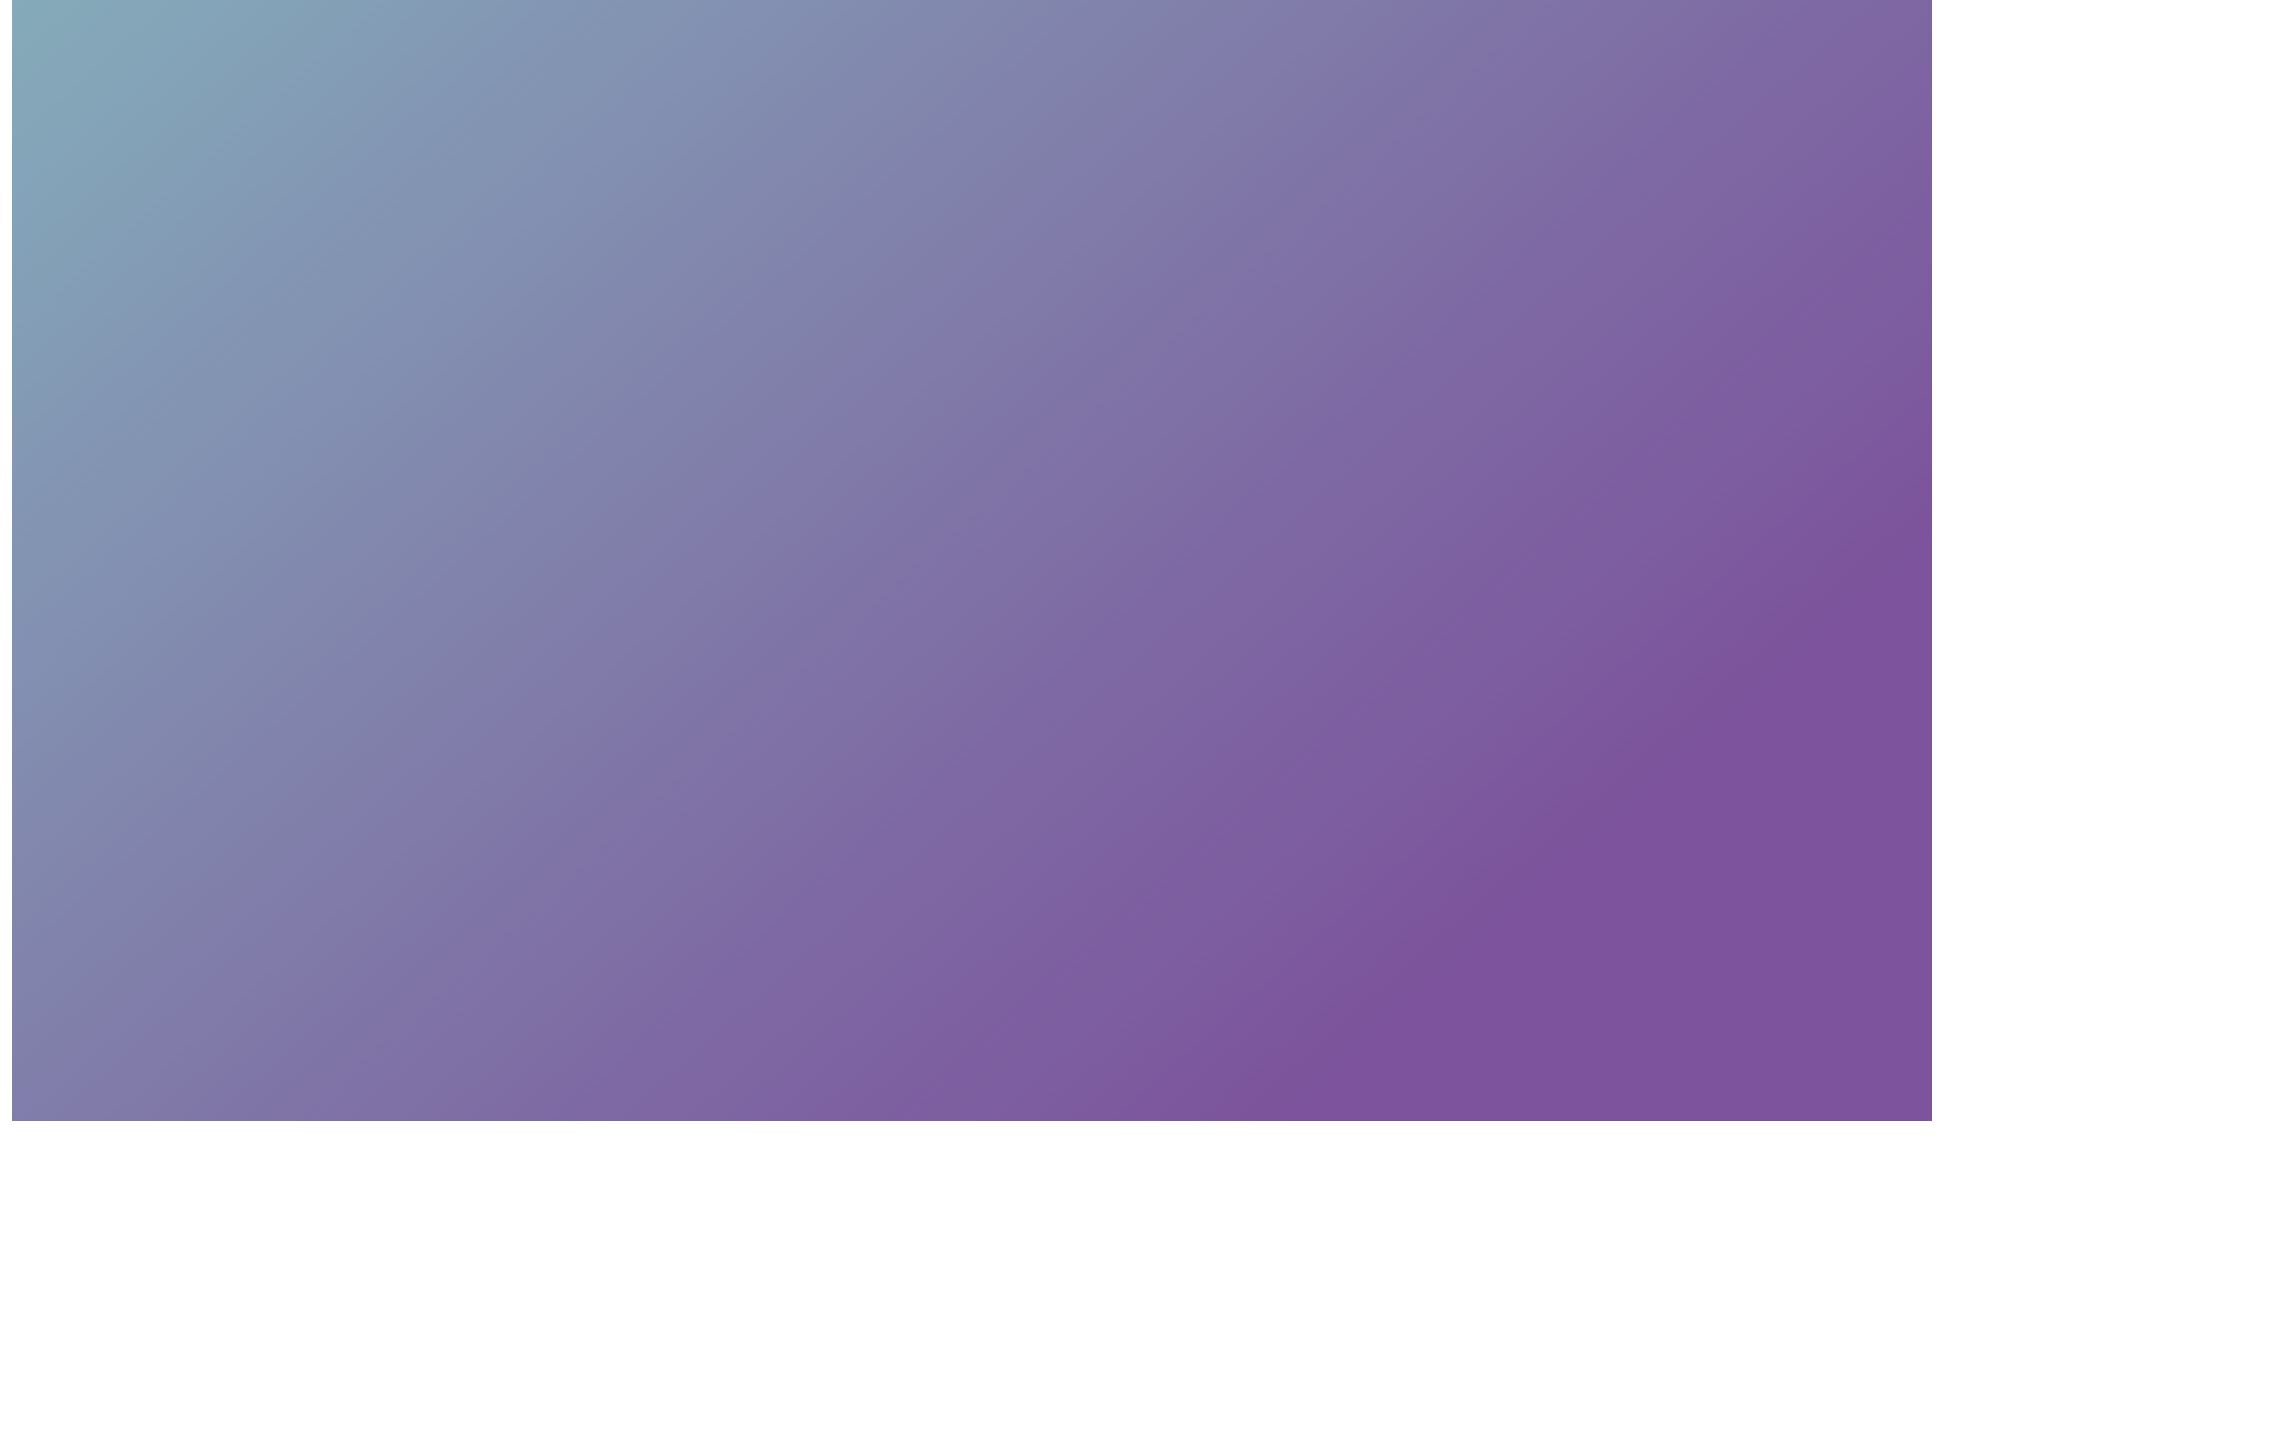
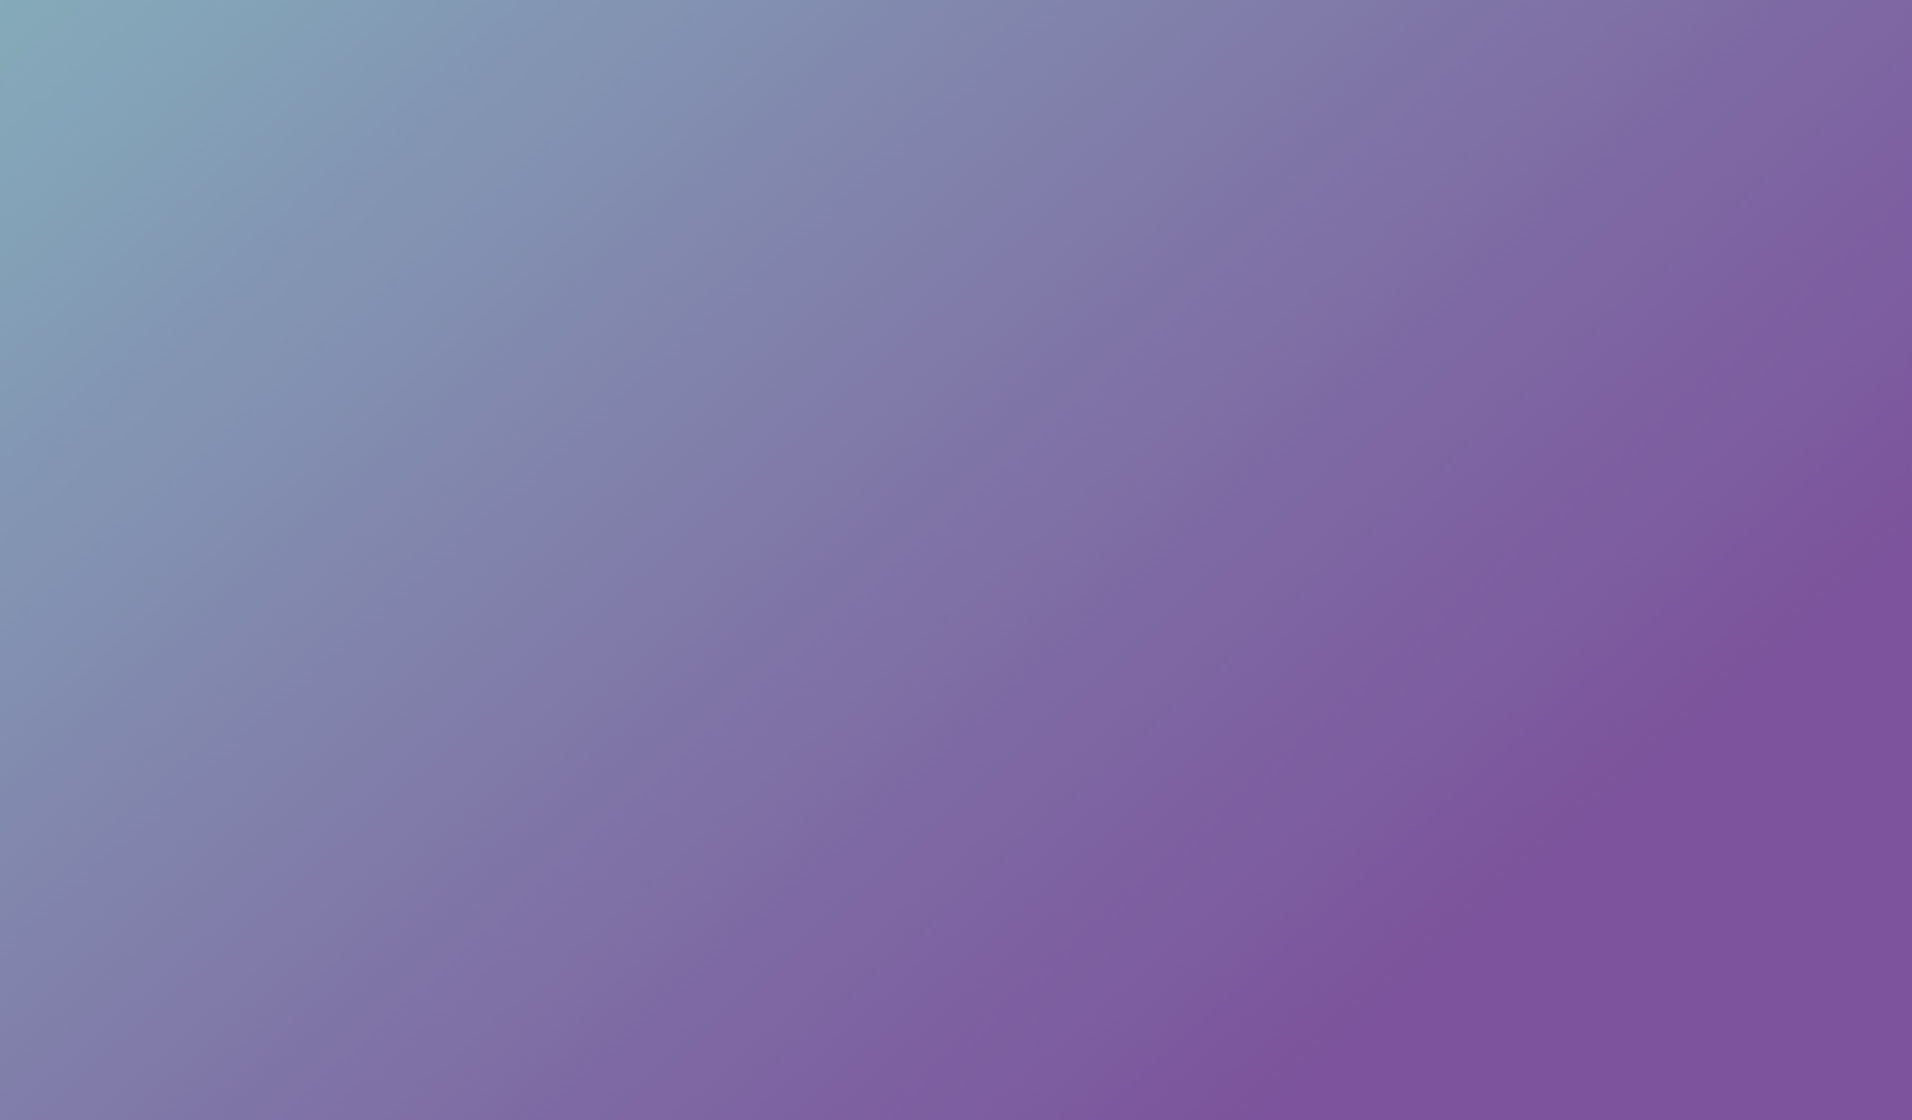
modal

diff --git a/src/index.html b/src/index.html
@@ -44,6 +44,11 @@
   <link rel='dns-prefetch' href='//www.google.com' />
   <link rel='dns-prefetch' href='//s.w.org' />
   <!-- This site uses the Google Analytics by ExactMetrics plugin v6.0.1 - Using Analytics tracking - https://www.exactmetrics.com/ -->
+  <!-- / Google Analytics by ExactMetrics -->
+  <script type="text/javascript">
+    window._wpemojiSettings = {"baseUrl":"https:\/\/s.w.org\/images\/core\/emoji\/12.0.0-1\/72x72\/","ext":".png","svgUrl":"https:\/\/s.w.org\/images\/core\/emoji\/12.0.0-1\/svg\/","svgExt":".svg","source":{"concatemoji":"https:\/\/gmcontractors.co.uk\/wp-includes\/js\/wp-emoji-release.min.js?ver=5.3.6"}};
+    !function(e,a,t){var r,n,o,i,p=a.createElement("canvas"),s=p.getContext&&p.getContext("2d");function c(e,t){var a=String.fromCharCode;s.clearRect(0,0,p.width,p.height),s.fillText(a.apply(this,e),0,0);var r=p.toDataURL();return s.clearRect(0,0,p.width,p.height),s.fillText(a.apply(this,t),0,0),r===p.toDataURL()}function l(e){if(!s||!s.fillText)return!1;switch(s.textBaseline="top",s.font="600 32px Arial",e){case"flag":return!c([127987,65039,8205,9895,65039],[127987,65039,8203,9895,65039])&&(!c([55356,56826,55356,56819],[55356,56826,8203,55356,56819])&&!c([55356,57332,56128,56423,56128,56418,56128,56421,56128,56430,56128,56423,56128,56447],[55356,57332,8203,56128,56423,8203,56128,56418,8203,56128,56421,8203,56128,56430,8203,56128,56423,8203,56128,56447]));case"emoji":return!c([55357,56424,55356,57342,8205,55358,56605,8205,55357,56424,55356,57340],[55357,56424,55356,57342,8203,55358,56605,8203,55357,56424,55356,57340])}return!1}function d(e){var t=a.createElement("script");t.src=e,t.defer=t.type="text/javascript",a.getElementsByTagName("head")[0].appendChild(t)}for(i=Array("flag","emoji"),t.supports={everything:!0,everythingExceptFlag:!0},o=0;o<i.length;o++)t.supports[i[o]]=l(i[o]),t.supports.everything=t.supports.everything&&t.supports[i[o]],"flag"!==i[o]&&(t.supports.everythingExceptFlag=t.supports.everythingExceptFlag&&t.supports[i[o]]);t.supports.everythingExceptFlag=t.supports.everythingExceptFlag&&!t.supports.flag,t.DOMReady=!1,t.readyCallback=function(){t.DOMReady=!0},t.supports.everything||(n=function(){t.readyCallback()},a.addEventListener?(a.addEventListener("DOMContentLoaded",n,!1),e.addEventListener("load",n,!1)):(e.attachEvent("onload",n),a.attachEvent("onreadystatechange",function(){"complete"===a.readyState&&t.readyCallback()})),(r=t.source||{}).concatemoji?d(r.concatemoji):r.wpemoji&&r.twemoji&&(d(r.twemoji),d(r.wpemoji)))}(window,document,window._wpemojiSettings);
+  </script>
   <style type="text/css">
     img.wp-smiley,
     img.emoji {
@@ -219,16 +224,12 @@ if(containerEl){
       var hash = this.hash;
       // animate
       $('html, body').animate({
-        scrollTop: $(hash).offset().top + 10
+        scrollTop: $(hash).offset().top -180
       }, 1000, function(){
         // when done, add hash to url
         // (default click behaviour)
-
-        console.log('prueba WAAA')
         //window.location.hash = hash;
       });
-
-      console.log('prueba BBB')
     });
     $(document).on("scroll", onScroll);
     function onScroll(event){
@@ -236,17 +237,13 @@ if(containerEl){
       $('.pagination a').each(function () {
         var currLink = $(this);
         var refElement = $(currLink.attr("href"));
-        if (refElement.offset().top - 10 <= scrollPos && refElement.offset().top + refElement.height() >= scrollPos ) {
+        if (refElement.offset().top - 181 <= scrollPos && refElement.offset().top + refElement.height() >= scrollPos ) {
           var href = currLink.attr("href");
           $('.page-link').removeClass("active");
           currLink.addClass("active");
-
-          console.log('prueba WAAA')
         }
         else{
           currLink.removeClass("active");
-
-          console.log('prueba WAAA')
         }
       });
     }
@@ -258,9 +255,8 @@ if(containerEl){
 <script type="text/javascript">
   $(".scroll-anchor").click(function() {
     $('html, body').animate({
-      scrollTop: $("#scrollTarget").offset().top + 10
+      scrollTop: $("#scrollTarget").offset().top - 90
     }, 1000);
-    console.log('prueba WAAA')
   });
 
 </script>

diff --git a/src/styles.scss b/src/styles.scss
@@ -2327,7 +2327,7 @@ div, dl, dt, dd, ul, ol, li, h1, h2, h3, h4, h5, h6, pre, form, p, blockquote, t
 p {
   margin-bottom: 1rem;
   font-size: inherit;
-  line-height: 1.7;
+  line-height: 1.3;
   text-rendering: optimizeLegibility
 }
 
@@ -8214,7 +8214,8 @@ button, a {
   right: 0;
   bottom: 0;
   left: 0;
-  background: transparent linear-gradient(96deg, #7CC6BF 0%, #7BB9BB 9%, #715B9A 78%, #6F4292 100%) 0% 0% no-repeat padding-box;
+  //background: transparent linear-gradient(96deg, #7CC6BF 0%, #7BB9BB 9%, #715B9A 78%, #6F4292 100%) 0% 0% no-repeat padding-box;
+  background-image: url('assets/img/Menu/heatherBg.jpg');
   -webkit-transform: translateY(-100%);
   -ms-transform: translateY(-100%);
   transform: translateY(-100%);
@@ -10139,9 +10140,9 @@ button, a {
   -ms-flex-align: center;
   align-items: center;
   padding: 2.5rem 5vw;
-  background: transparent linear-gradient(138deg, #7CC6BF 0%, #7BB9BB 9%, #715B9A 78%, #6F4292 100%) 0% 0% no-repeat padding-box;
-  //background-image: url("../img/backgrounds/logo-m-bg.svg");
-  background-position: center bottom;
+  //background: transparent linear-gradient(138deg, #7CC6BF 0%, #7BB9BB 9%, #715B9A 78%, #6F4292 100%) 0% 0% no-repeat padding-box;
+  background-image: url("assets/img/Menu/Bg 2.jpg");
+  background-position: center;
   background-repeat: no-repeat;
   background-size: cover
 }
@@ -11270,4 +11271,14 @@ button, a {
 
 .carousel-dots {
   bottom: -10px !important;
+}
+
+.social-home{
+  position: absolute;
+  top: 50%;
+  right: 0;
+  a{
+    color: #FFFFFF;
+    font-size: 40px;
+  }
 }

diff --git a/src/app/home/home.component.html b/src/app/home/home.component.html
@@ -13,6 +13,15 @@
         </div>
       </div>
     </div>
+    <div class="social-home">
+      <a href="https://www.linkedin.com/company/" target="_blank">
+        <i class="fab fa-whatsapp"></i>
+      </a>
+      <br>
+      <a href="https://www.linkedin.com/company/" target="_blank">
+        <i class="fab fa-linkedin"></i>
+      </a>
+    </div>
   </div>
   <div class="home-hero-slides">
     <div class="slide"
